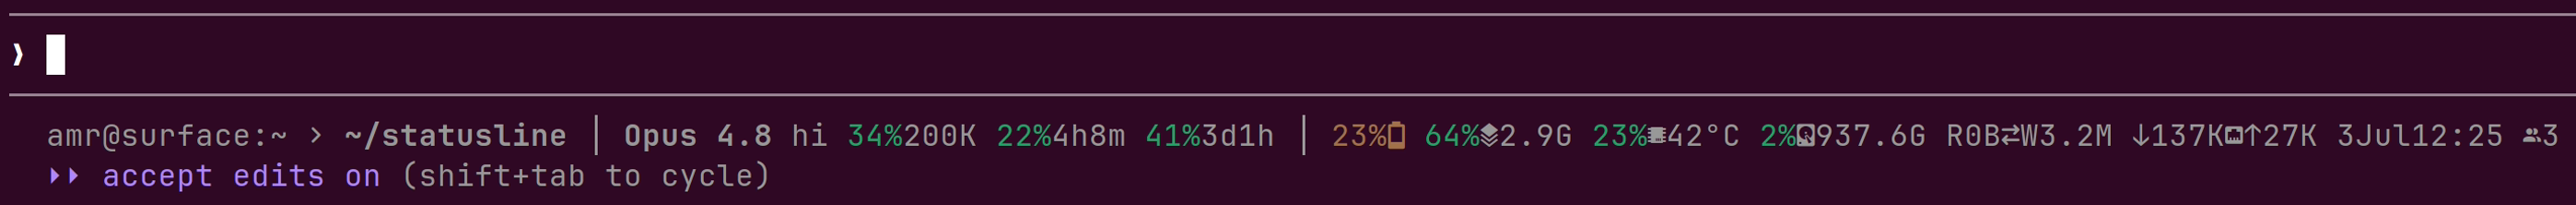
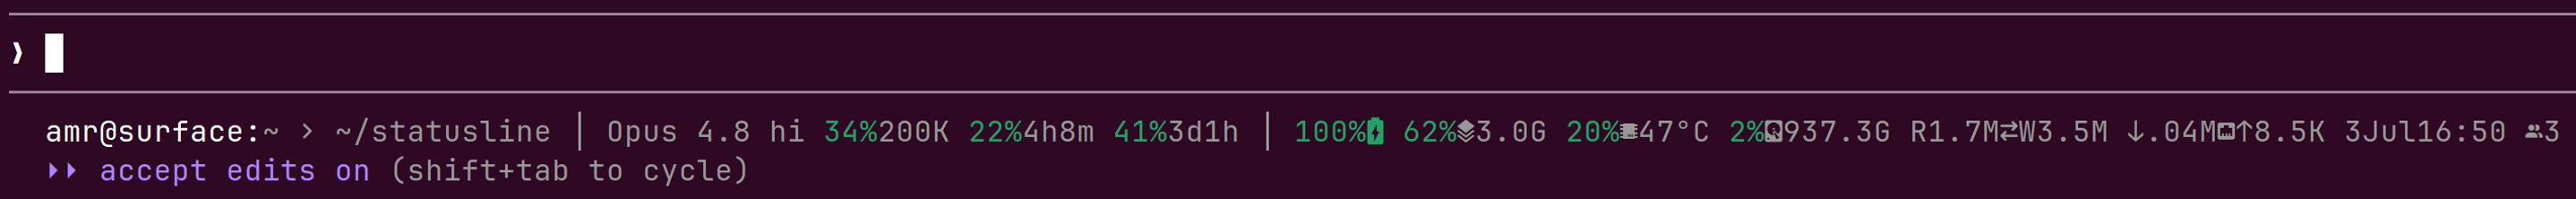
Fixed-width net/disk IO: leading-dot fraction for the 10-99 band
Rates no longer reflow the statusline every second. Natural forms stay
readable (1.5K, 120K, 823B); the two-significant-digit 10-99 band, one
char short of the others, rolls up to a leading-dot fraction of the next
unit (12K -> .01M) instead of padding with a space. Rolls at 999.5 so the
number is always exactly 3 chars, total width a constant 4.

C + Python parity, byte-identical over a 469-value sweep. No runtime cost:
syscalls 29->29, binary size and render time unchanged.

Changed region(s): [[0.0, 0.5946, 0.9957, 0.7568], [0.0, 0.7838, 0.3112, 0.9189], [0.0, 0.2162, 0.0311, 0.3243]]

diff --git a/statusline.py b/statusline.py
@@ -119,16 +119,23 @@ else:
 
 # -------------------------------------------------------------- helpers ----
 def human(n):
-    """Bytes -> compact human string (no decimals for big units)."""
+    """Bytes -> fixed 4-char string (net/disk IO only) so these fast-changing
+    rates never reflow the statusline. Natural forms stay readable: <10 shows
+    one decimal (1.5K), 100-999 an integer (120K, 823B). The awkward 10-99 band
+    is two significant digits - one char short of the others - so instead of
+    padding with a space it rolls up to a leading-dot fraction of the next unit
+    (12K -> .01M). Rolls at 999.5 so the number is always exactly 3 chars."""
     n = float(n)
-    for unit in ("B", "K", "M", "G", "T"):
-        if n < 1024 or unit == "T":
-            if unit == "B":
-                return f"{int(n)}{unit}"
-            if n < 10:
-                return f"{n:.1f}{unit}"
-            return f"{int(round(n))}{unit}"
+    i = 0
+    units = ("B", "K", "M", "G", "T")
+    while n >= 999.5 and i < 4:
         n /= 1024.0
+        i += 1
+    if n < 9.95:
+        return f"{n:.1f}{units[i]}"
+    if n < 99.5 and i < 4:
+        return f".{round(n / 1024.0 * 100.0):02d}{units[i + 1]}"
+    return f"{n:.0f}{units[i]}"
 
 def gb(n):
     return f"{n/1e9:.1f}G"

diff --git a/statusline.c b/statusline.c
@@ -172,18 +172,19 @@ static const char *bat_glyph(int pct, bool charging) {
 /* Python round() / int(round(x)) is round-half-even; rint() matches. */
 static long iround(double x) { return (long)rint(x); }
 
-/* Bytes -> compact human string (no decimals for big units). */
+/* Bytes -> fixed 4-char string (net/disk IO only) so these fast-changing rates
+ * never reflow the statusline. Natural forms stay readable: <10 shows one
+ * decimal (1.5K), 100-999 an integer (120K, 823B). The awkward 10-99 band is
+ * two significant digits - one char short of the others - so instead of padding
+ * with a space it rolls up to a leading-dot fraction of the next unit
+ * (12K -> .01M). Rolls at 999.5 so the number is always exactly 3 chars. */
 static void human(double n, char *dst, size_t cap) {
     static const char *UNITS[] = {"B", "K", "M", "G", "T"};
-    for (int i = 0; i < 5; i++) {
-        if (n < 1024.0 || i == 4) {
-            if (i == 0)           snprintf(dst, cap, "%ld%s", (long)n, UNITS[i]);
-            else if (n < 10.0)    snprintf(dst, cap, "%.1f%s", n, UNITS[i]);
-            else                  snprintf(dst, cap, "%ld%s", iround(n), UNITS[i]);
-            return;
-        }
-        n /= 1024.0;
-    }
+    int i = 0;
+    while (n >= 999.5 && i < 4) { n /= 1024.0; i++; }
+    if (n < 9.95)              snprintf(dst, cap, "%.1f%s", n, UNITS[i]);
+    else if (n < 99.5 && i < 4) snprintf(dst, cap, ".%02ld%s", iround(n / 1024.0 * 100.0), UNITS[i + 1]);
+    else                       snprintf(dst, cap, "%.0f%s", n, UNITS[i]);
 }
 
 /* Token count -> compact decimal string (200000 -> "200K", 1000000 -> "1.0M"). */